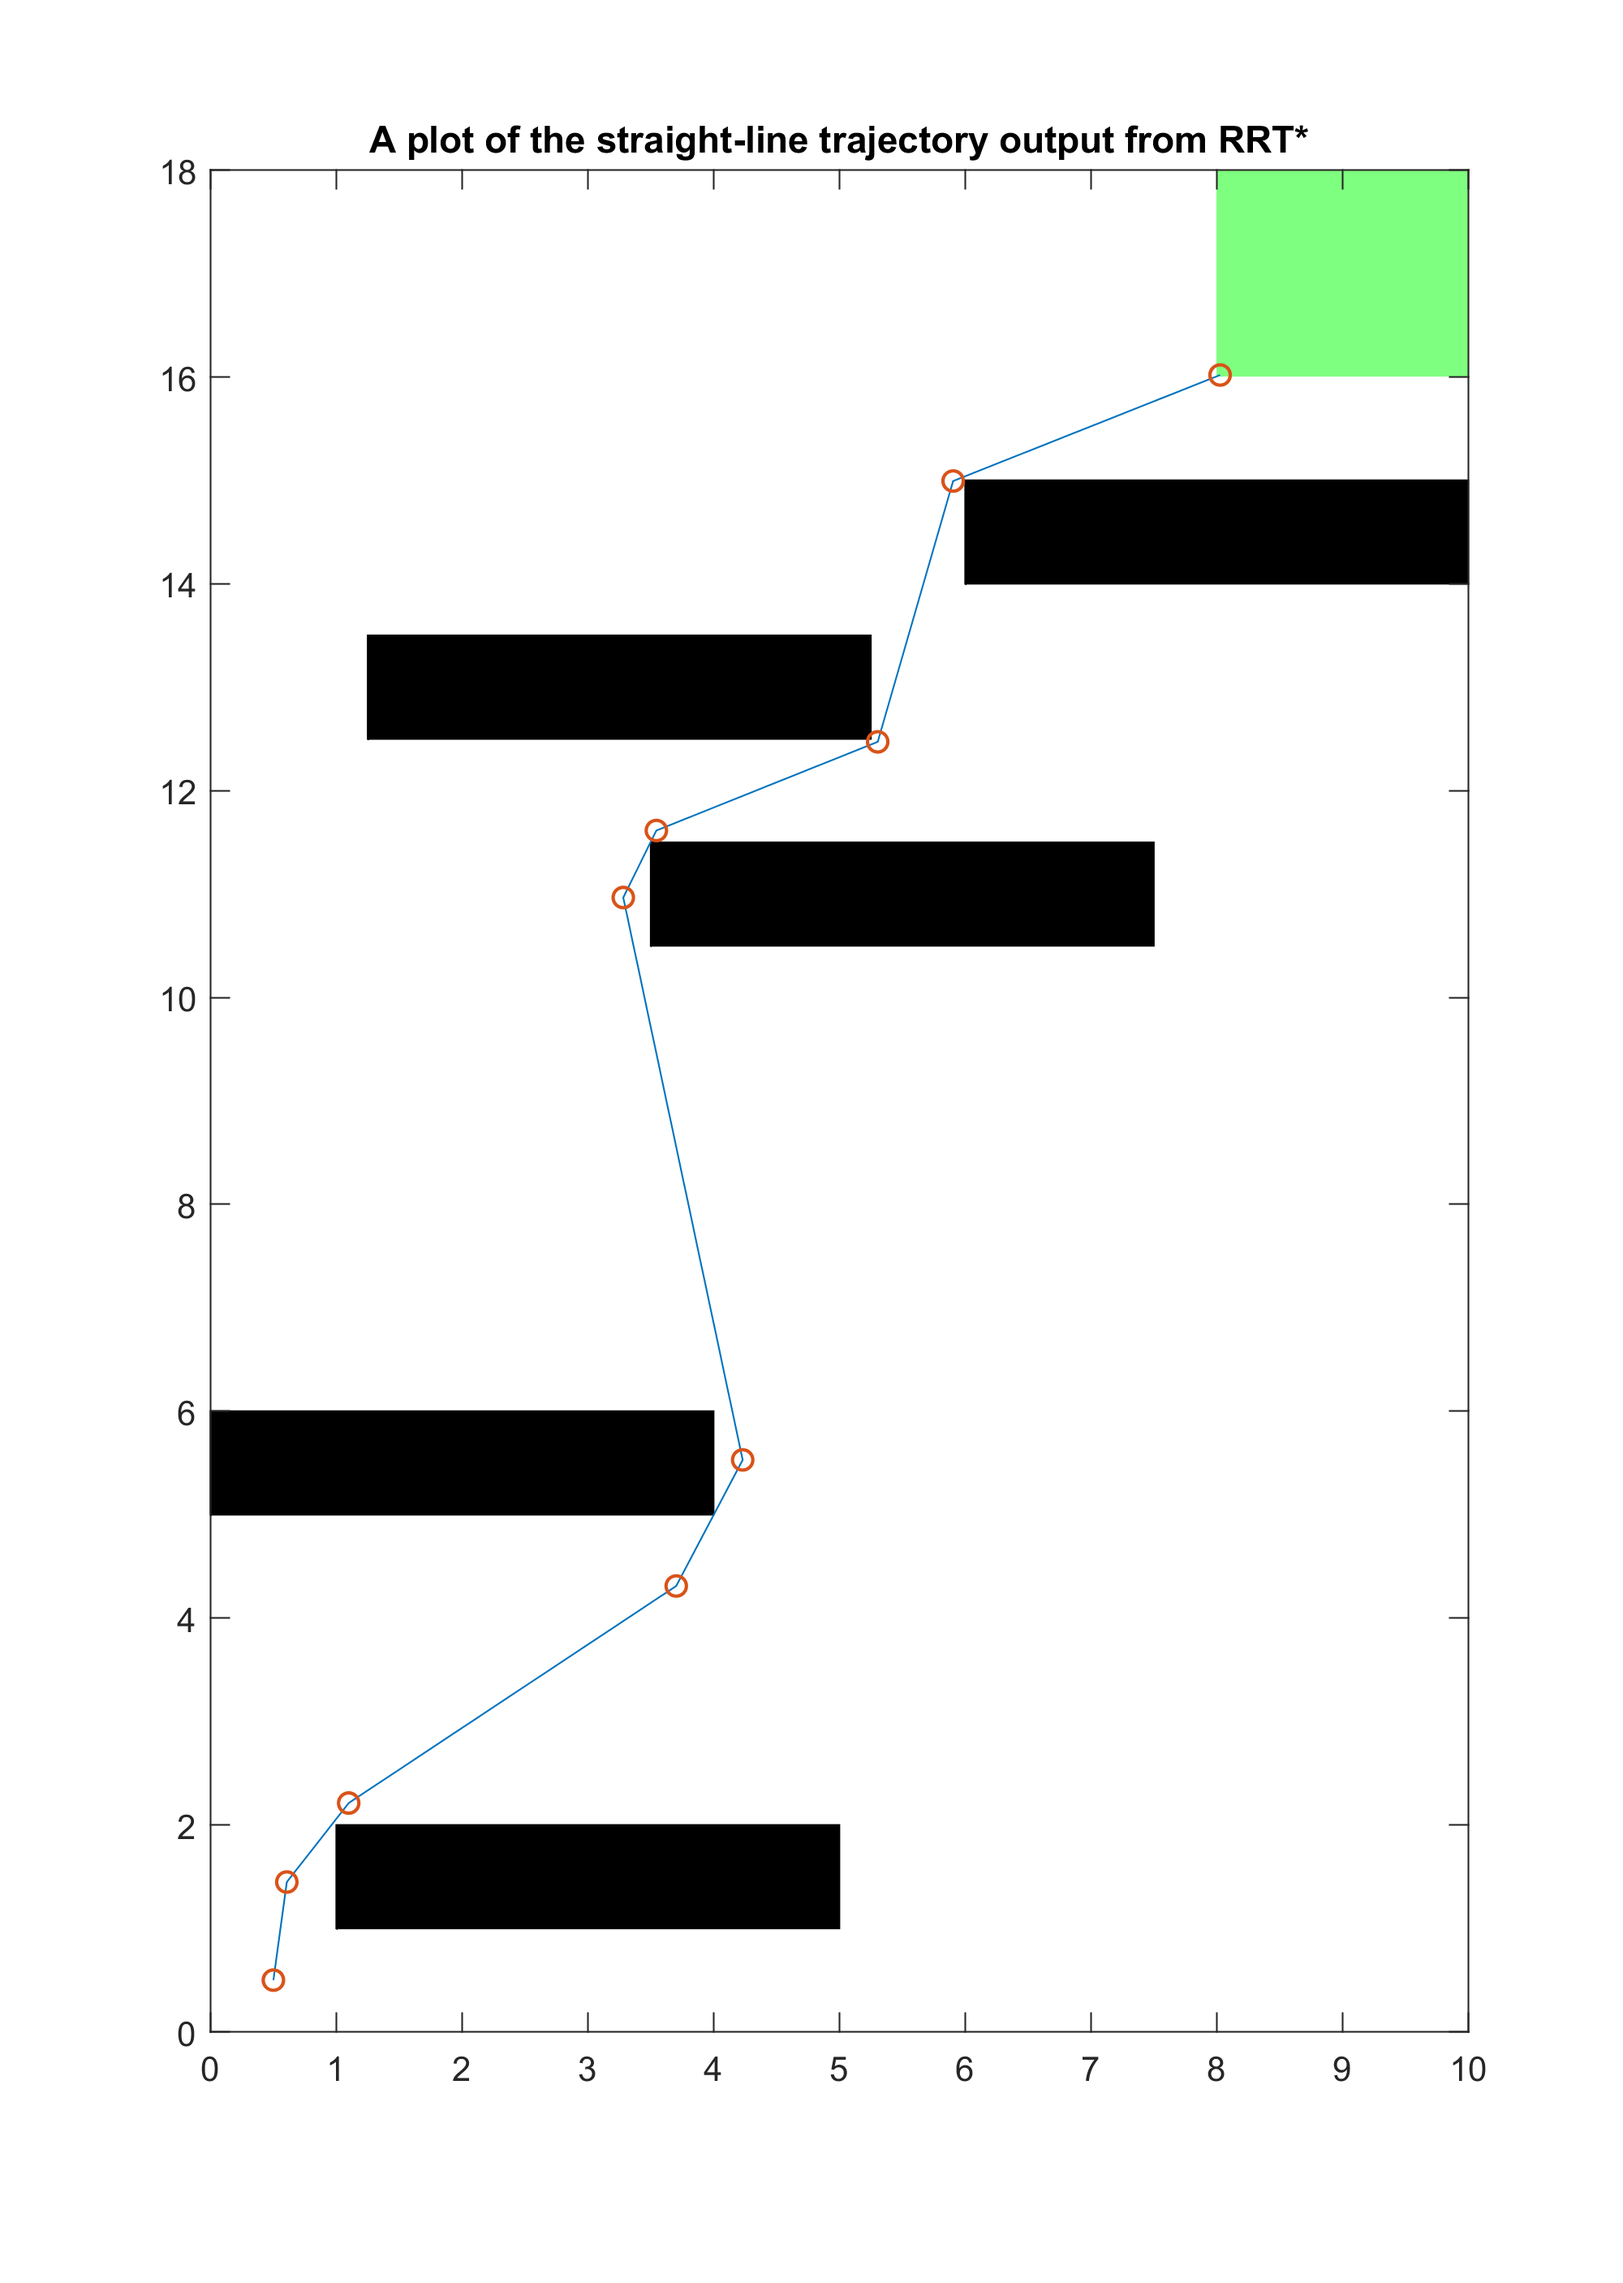
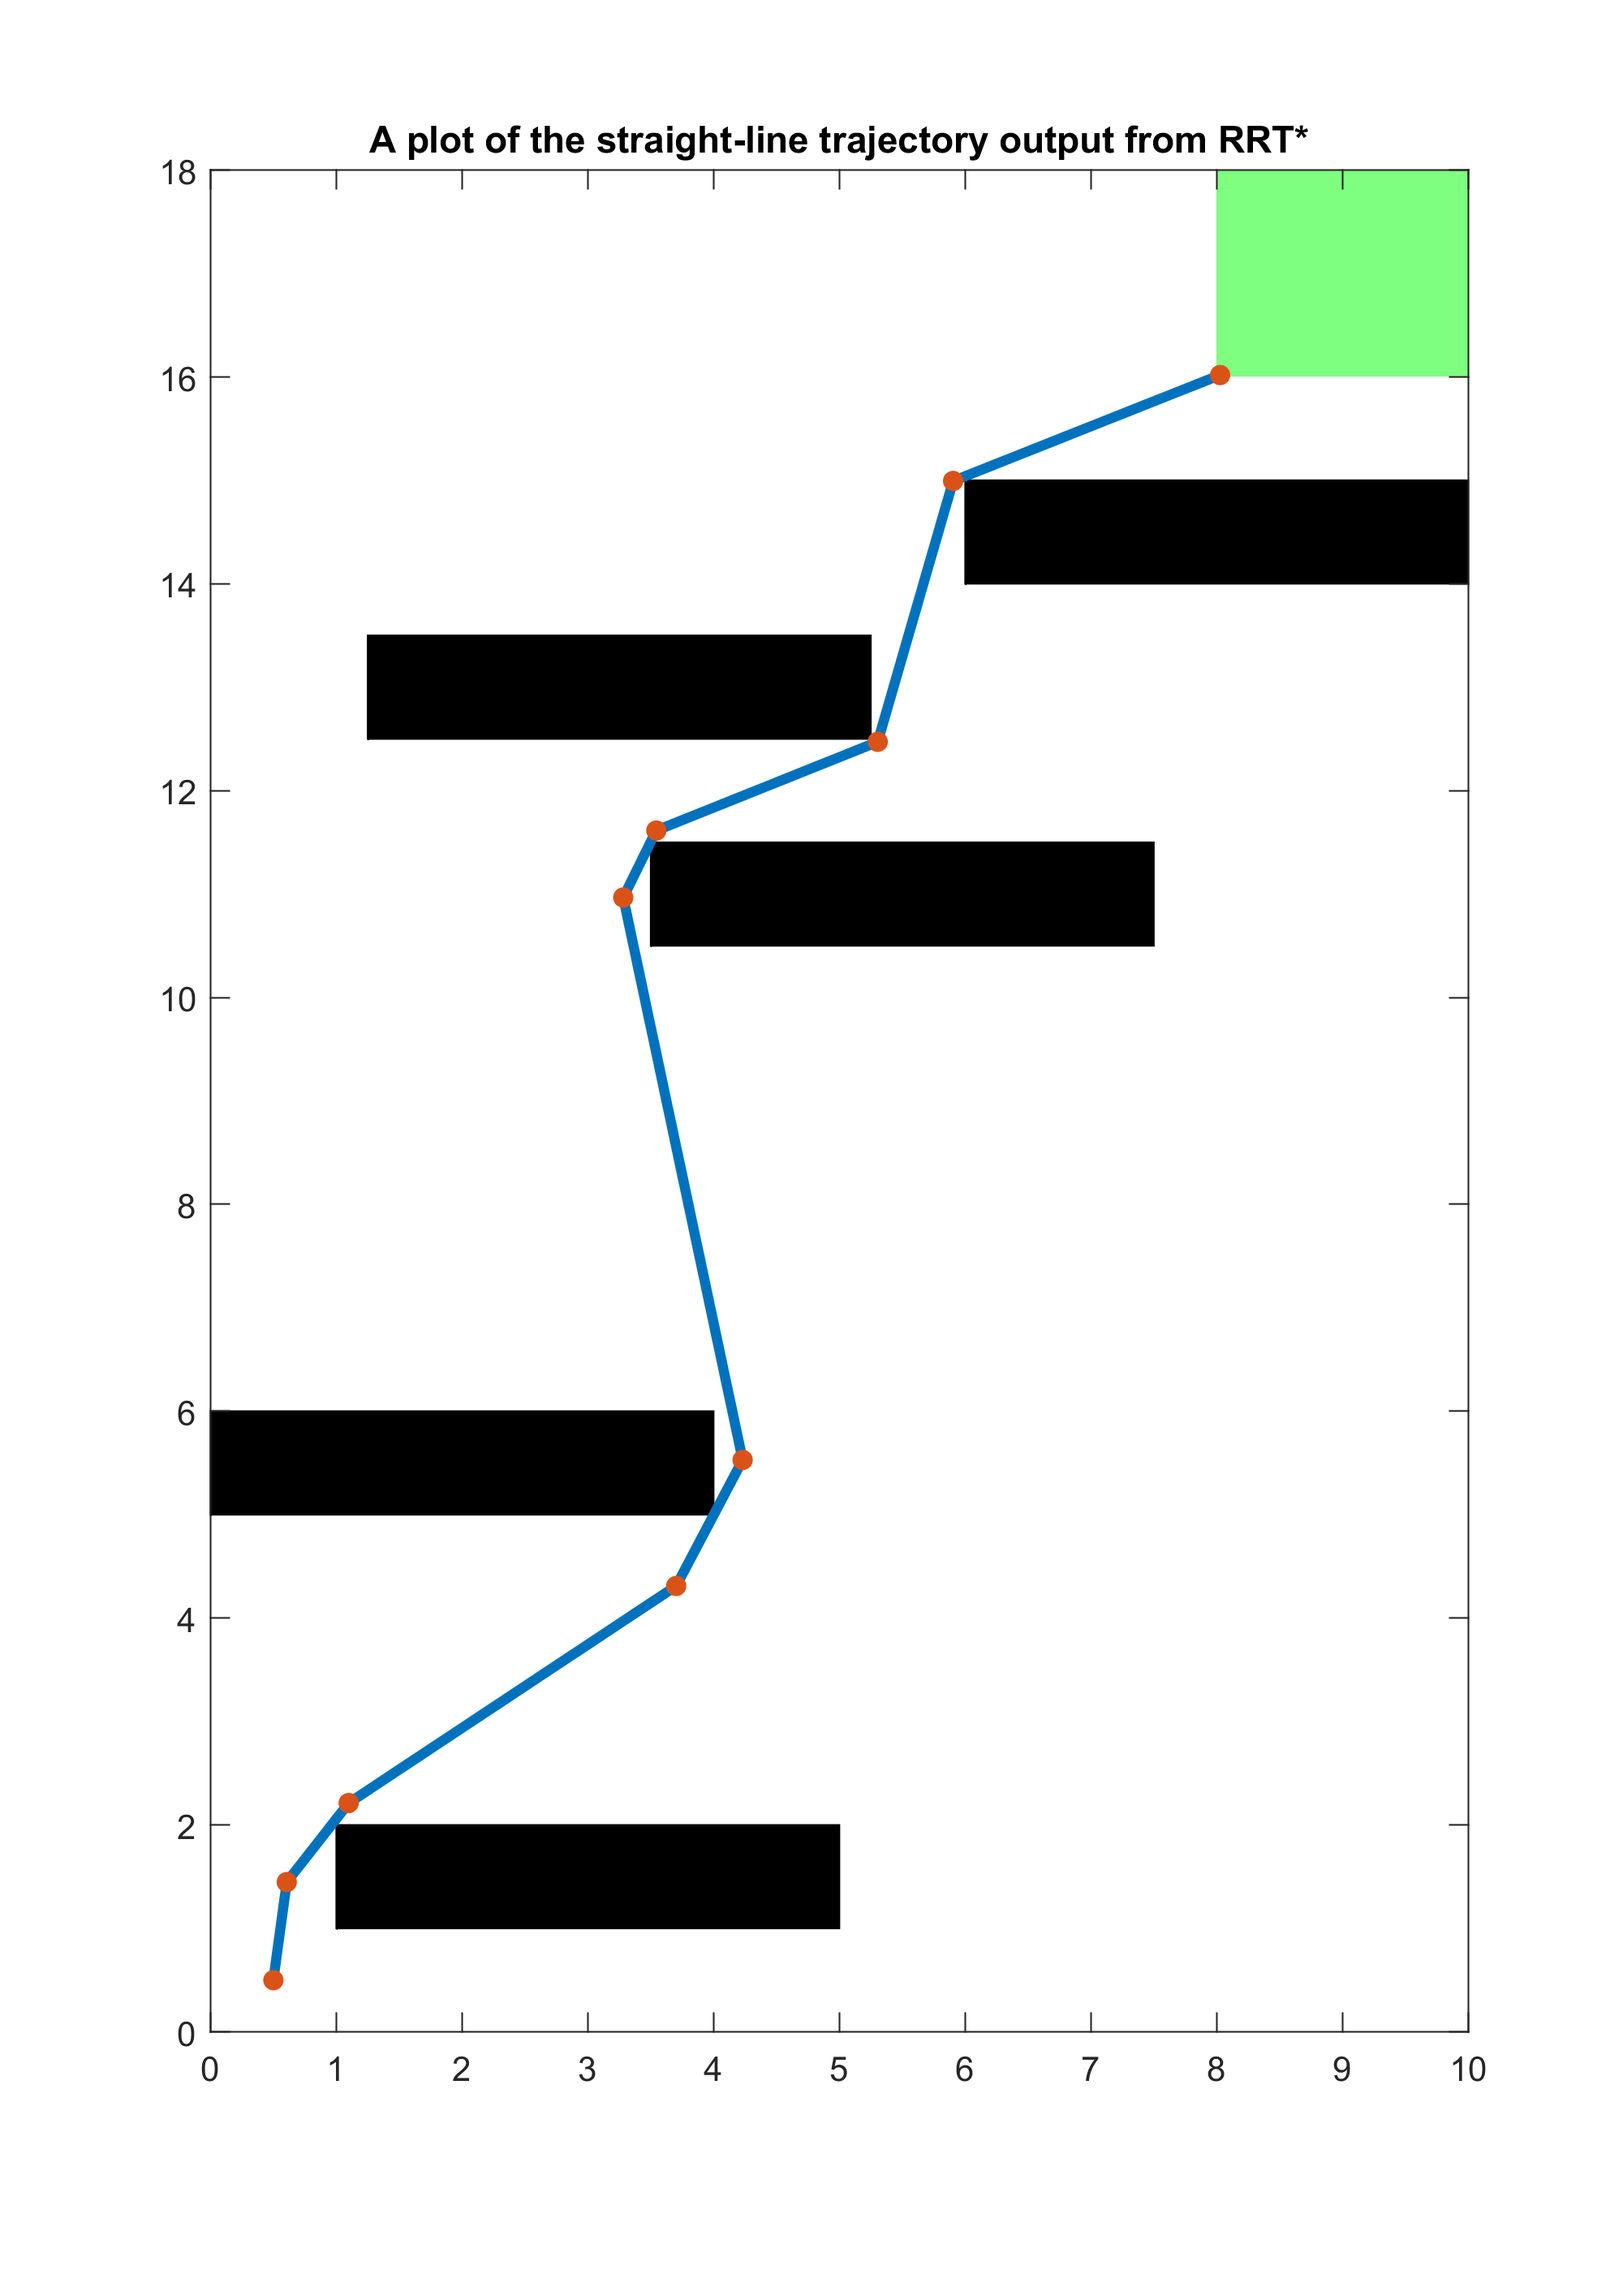
comment

diff --git a/PlotTrajectory.m b/PlotTrajectory.m
@@ -11,8 +11,10 @@ set(goal, 'edgealpha', 0)
 
 if polyOrder == 1
     title('A plot of the straight-line trajectory output from RRT*')
-    plot(waypoints(:,1), waypoints(:,2))
-    scatter(waypoints(:,1), waypoints(:,2), 'linewidth', 3)
+    plot(waypoints(:,1), waypoints(:,2), 'linewidth', 3)
+    scatter(waypoints(:,1), waypoints(:,2), 'filled')
+    
+%     print(gcf,'RRTstar_waypoints.png','-dpng','-r300'); % UNCOMMENT TO SAVE HIGH RESOLUTION
 else
     title('A plot of the polynomial trajectory with segments having polynomial order ' + string(polyOrder))
     for i=1:length(waypoints)-1
@@ -21,7 +23,7 @@ else
     end
     scatter(waypoints(:,1),waypoints(:,2), 'linewidth', 1.5)
     
-    print(gcf,'FinalTraj.png','-dpng','-r300'); % UNCOMMENT TO SAVE HIGH RESOLUTION
+%     print(gcf,'FinalTraj.png','-dpng','-r300'); % UNCOMMENT TO SAVE HIGH RESOLUTION
     
     %% Scatter of trajectory points to show quadrotor speed
     figure('Renderer', 'painters', 'Position', [1920/2 50 1920/3 900])
